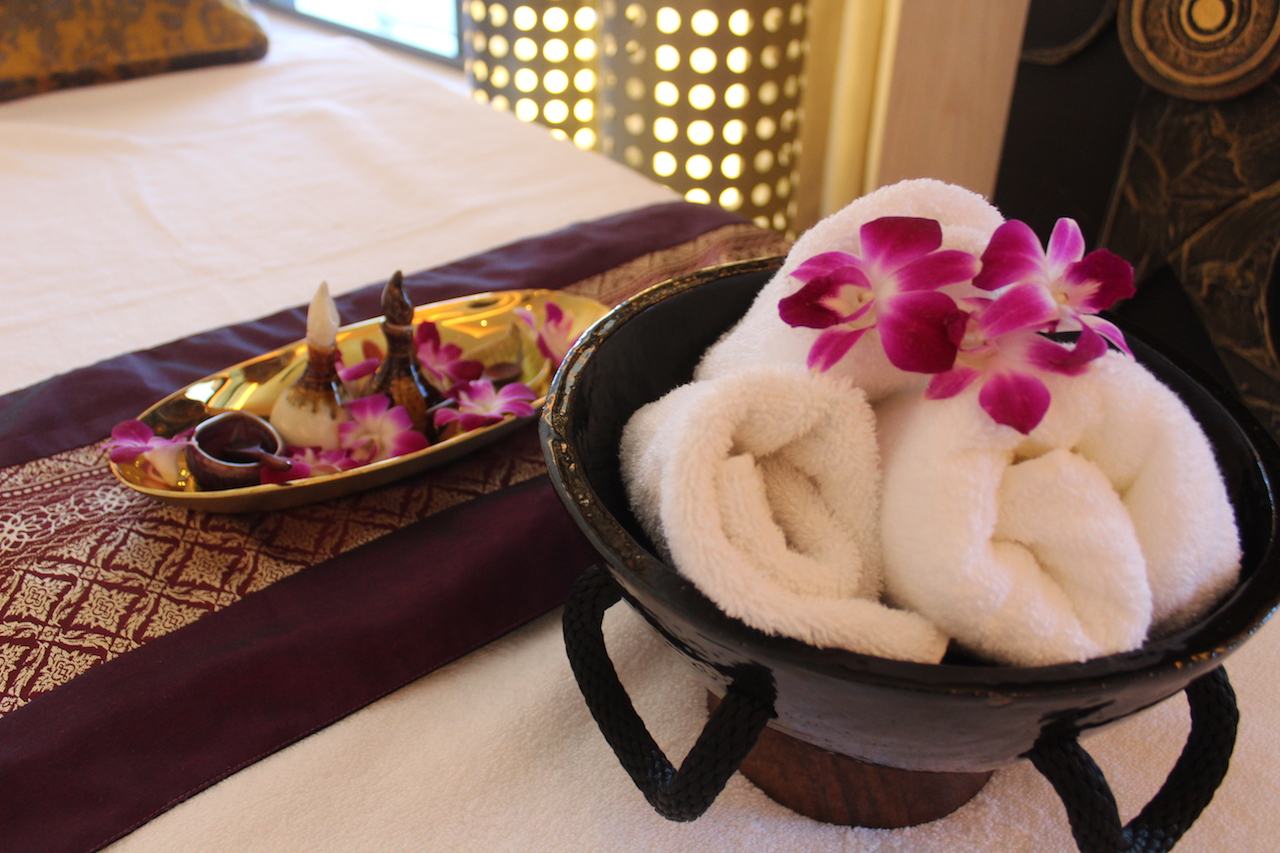
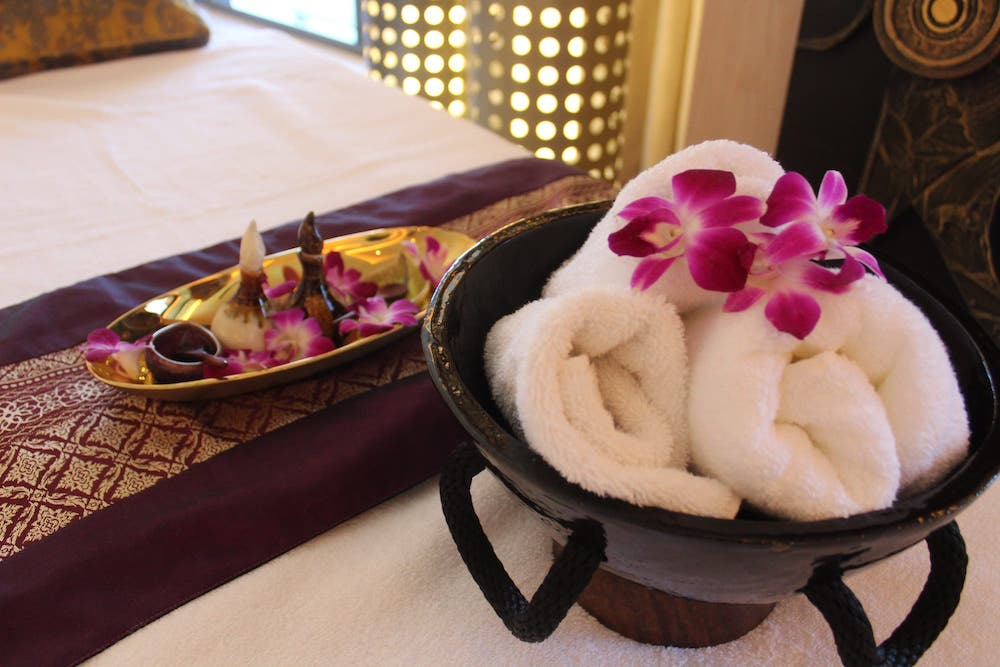
Replaced watermark images, compressed images

Changed region(s): [[0.0, 0.6597, 0.093, 0.8396]]

diff --git a/menu.html b/menu.html
@@ -196,7 +196,7 @@
                                                                     </div>
                                                                     <div class="column-1_2 sc_column_item">
                                                                         <figure class="sc_image sc_image_shape_square">
-                                                                            <img src="https://static5.depositphotos.com/1020804/500/i/950/depositphotos_5006287-stock-photo-young-woman-getting-spa-procedures.jpg" alt="" />
+                                                                            <img src="images/image_02.jpg" alt="" />
                                                                         </figure>
                                                                     </div>
                                                                 </div>
@@ -235,7 +235,7 @@
                                                                     </div>
                                                                     <div class="column-1_2 sc_column_item">
                                                                         <figure class="sc_image sc_image_shape_square">
-                                                                            <img src="https://static3.depositphotos.com/1001992/154/i/950/depositphotos_1543232-stock-photo-back-massage-to-the-young.jpg" alt="" />
+                                                                            <img src="images/image_01.jpg" alt="" />
                                                                         </figure>
                                                                     </div>
                                                                 </div>
@@ -274,7 +274,7 @@
                                                                     </div>
                                                                     <div class="column-1_2 sc_column_item">
                                                                         <figure class="sc_image sc_image_shape_square">
-                                                                            <img src="https://static8.depositphotos.com/1491329/1068/i/950/depositphotos_10682223-stock-photo-aromatherapy-essential-oil-spa-and.jpg" alt="" />
+                                                                            <img src="images/image_04.jpg" alt="" />
                                                                         </figure>
                                                                     </div>
                                                                 </div>
@@ -313,7 +313,7 @@
                                                                     </div>
                                                                     <div class="column-1_2 sc_column_item">
                                                                         <figure class="sc_image sc_image_shape_square">
-                                                                            <img src="https://st2.depositphotos.com/3789915/5497/i/950/depositphotos_54974399-stock-photo-facial-spa-massage.jpg" alt="" />
+                                                                            <img src="images/image_05.jpg" alt="" />
                                                                         </figure>
                                                                     </div>
                                                                 </div>
@@ -352,7 +352,7 @@
                                                                     </div>
                                                                     <div class="column-1_2 sc_column_item">
                                                                         <figure class="sc_image sc_image_shape_square">
-                                                                            <img src="https://st2.depositphotos.com/3789915/6206/i/950/depositphotos_62060305-stock-photo-thai-massage.jpg" alt="" />
+                                                                            <img src="images/image_09.jpg" alt="" />
                                                                         </figure>
                                                                     </div>
                                                                 </div>
@@ -387,7 +387,7 @@
                                                                     </div>
                                                                     <div class="column-1_2 sc_column_item">
                                                                         <figure class="sc_image sc_image_shape_square">
-                                                                            <img src="https://st2.depositphotos.com/1606463/5745/i/950/depositphotos_57454671-stock-photo-love-simbol.jpg" alt="" />
+                                                                            <img src="images/image_07.jpg" alt="" />
                                                                         </figure>
                                                                     </div>
                                                                 </div>
@@ -426,7 +426,7 @@
                                                                     </div>
                                                                     <div class="column-1_2 sc_column_item">
                                                                         <figure class="sc_image sc_image_shape_square">
-                                                                            <img src="https://st2.depositphotos.com/1001992/5750/i/950/depositphotos_57505993-stock-photo-attractive-couple-relax-in-spa.jpg" alt="" />
+                                                                            <img src="images/image_08.jpg" alt="" />
                                                                         </figure>
                                                                     </div>
                                                                 </div>
@@ -465,7 +465,7 @@
                                                                     </div>
                                                                     <div class="column-1_2 sc_column_item">
                                                                         <figure class="sc_image sc_image_shape_square">
-                                                                            <img src="https://static6.depositphotos.com/1095795/637/i/950/depositphotos_6374442-stock-photo-lower-back-massage.jpg" alt="" />
+                                                                            <img src="images/image_03.jpg" alt="" />
                                                                         </figure>
                                                                     </div>
                                                                 </div>

diff --git a/css/custom.css b/css/custom.css
@@ -193,7 +193,7 @@
 	margin-bottom:2.75em;
 }
 .cu_block_4 {
-	background-image:url(https://st2.depositphotos.com/1022135/9413/i/950/depositphotos_94132794-stock-photo-woman-having-massage.jpg);
+	background-image:url(../images/image_10.jpg);
 	background-repeat:no-repeat;
 	background-size:cover;
 }
@@ -201,7 +201,7 @@
 	background-color:#f8f8f8;
 }
 .cu_block_6 {
-	background-image:url(https://st2.depositphotos.com/3969019/5664/i/950/depositphotos_56643643-stock-photo-massage-therapist-at-the-luxury.jpg);
+	background-image:url(../images/image_06.jpg);
 	background-repeat:no-repeat;
 	background-size:cover;
 }
@@ -597,18 +597,14 @@
 	font-weight: 400;
 }
 
-/* .certificates .top_panel_image, .eventspage .top_panel_image, .aboutus2 .top_panel_image, .postformats .top_panel_image, .contactus .top_panel_image, .classicblog .top_panel_image, .booking .top_panel_image, .services2 .top_panel_image, .masonry2 .top_panel_image, .masonry3 .top_panel_image, .pricetables .top_panel_image, .ourstaff .top_panel_image, .portfolio2 .top_panel_image, .aboutus .top_panel_image, .ourpricing .top_panel_image, .portfolio3 .top_panel_image, .services1 .top_panel_image {
-	background-image: url(https://st3.depositphotos.com/1000260/14191/i/1600/depositphotos_141916002-stock-photo-massage-woman-spa-salon-female.jpg) !important;
-} */
-
 .background_image_about {
-    background-image: url(https://st3.depositphotos.com/6583218/16322/i/1600/depositphotos_163225352-stock-photo-thai-spa-massage-compress-balls.jpg) !important;
+    background-image: url(../images/image_13.jpg) !important;
     background-color: rgba(0, 0, 0, 0.4);
     background-blend-mode: color-dodge;
 }
 
 .background_image_menu {
-    background-image: url(https://st3.depositphotos.com/1000260/14191/i/1600/depositphotos_141916002-stock-photo-massage-woman-spa-salon-female.jpg) !important;
+    background-image: url(../images/image_12.jpg) !important;
 }
 
 .background_image_booking {
